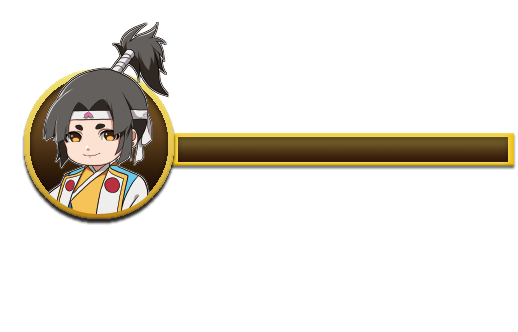
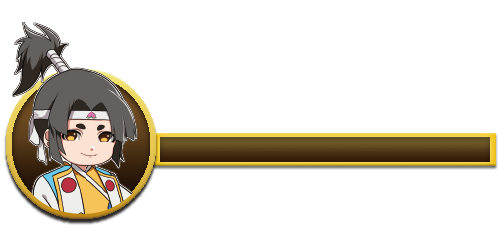
更新

diff --git a/広島校高松校合同チーム/ソースファイル/SampleMomo/GameProject/Game/CGameSceneBossUI.cpp b/広島校高松校合同チーム/ソースファイル/SampleMomo/GameProject/Game/CGameSceneBossUI.cpp
@@ -6,11 +6,11 @@
 
 CGameSceneBossUI::CGameSceneBossUI() :CObject(0, DP_UI)
 {
-	m_ui_pos = CVector2D(780, 670);
-	m_ui_size = CVector2D(500, 50);
+	m_ui_pos = CVector2D(780, 470);
+	m_ui_size = CVector2D(500, 250);
 
 	m_hp_frame_image_p = GET_RESOURCE("Boss_HP_Bar_Frame", CImage*);
-	m_hp_bar_p = new CBar(GET_RESOURCE("Boss_HP_Bar", CImage*), CCharacterBoss::GetInstance()->GetHitPointPointer(), CCharacterBoss::GetInstance()->GetHitPointMax(), m_ui_pos + CVector2D(9, 6.0), CVector2D(481,38));
+	m_hp_bar_p = new CBar(GET_RESOURCE("Boss_HP_Bar", CImage*), CCharacterBoss::GetInstance()->GetHitPointPointer(), CCharacterBoss::GetInstance()->GetHitPointMax(), m_ui_pos + CVector2D(11, 138.0), CVector2D(335,25));
 
 }
 
@@ -26,6 +26,7 @@ void CGameSceneBossUI::Update()
 
 void CGameSceneBossUI::Draw()
 {
+	
 	m_hp_frame_image_p->SetSize(m_ui_size);
 	m_hp_frame_image_p->SetPos(m_ui_pos);
 	m_hp_frame_image_p->Draw();

diff --git a/広島校高松校合同チーム/ソースファイル/SampleMomo/GameProject/Game/CCharacterEnemy.h b/広島校高松校合同チーム/ソースファイル/SampleMomo/GameProject/Game/CCharacterEnemy.h
@@ -5,7 +5,7 @@ class CBar;
 
 #define ENEMY_SPEAR_FIND_LENGTH (3000.0f)
 #define ENEMY_SPEAR_ATTACK_FRAME (30.0)
-#define ENEMY_SPEAR_ATTACK_LENGTH CVector3D(300.0f,150.0f,150.0)
+#define ENEMY_SPEAR_ATTACK_LENGTH CVector3D(300.0f,150.0f,75.0)
 #define ENEMY_SPEAR_MOVE_END_LENGTH CVector3D(270.0f,150.0f,90.0)
 #define ENEMY_SPEAR_ATTACK_POWER (1.0)
 #define ENEMY_SPEAR_ATTACK_HIT_START_FRAME (15.0)
@@ -15,7 +15,7 @@ class CBar;
 
 #define ENEMY_AXE_FIND_LENGTH (3000.0f)
 #define ENEMY_AXE_ATTACK_FRAME (30.0)
-#define ENEMY_AXE_ATTACK_LENGTH CVector3D(300.0f,1000.0f,150.0)
+#define ENEMY_AXE_ATTACK_LENGTH CVector3D(300.0f,1000.0f,75.0)
 #define ENEMY_AXE_MOVE_END_LENGTH CVector3D(270.0f,1000.0f,90.0)
 #define ENEMY_AXE_ATTACK_POWER (1.0)
 #define ENEMY_AXE_ATTACK_HIT_START_FRAME (15.0)

diff --git a/広島校高松校合同チーム/ソースファイル/SampleMomo/GameProject/Game/CCharacterEnemy.cpp b/広島校高松校合同チーム/ソースファイル/SampleMomo/GameProject/Game/CCharacterEnemy.cpp
@@ -18,8 +18,8 @@ CCharacterEnemy::CCharacterEnemy(int _enemy_id, CVector3D _enemy_pos, CGameScene
 	SetIsShowShadow(true);
 	SetRads(75, 150, 10);
 
-	m_hit_point = 10.0f;
-	m_hit_point_max = 10.0f;
+	m_hit_point = 7.5f;
+	m_hit_point_max = 7.5f;
 
 
 	LoadAnimImage();

diff --git a/広島校高松校合同チーム/ソースファイル/SampleMomo/GameProject/Game/CCharacterPlayer.h b/広島校高松校合同チーム/ソースファイル/SampleMomo/GameProject/Game/CCharacterPlayer.h
@@ -89,7 +89,7 @@
 //#define PLAYER_EVASION_MOVE_END_FRAME (PLAYER_EVASION_ANIM_DELAY * 5)
 
 
-#define PLAYER_AFTER_DAMAGE_INVINCIBLE (28)
+#define PLAYER_AFTER_DAMAGE_INVINCIBLE (40)
 #define PLAYER_KNOCK_BACK_FRAME (30.0)
 #define PLAYER_DAMAGE_FRAME (30.0)
 

diff --git a/広島校高松校合同チーム/ソースファイル/SampleMomo/GameProject/Game/CGameScene.cpp b/広島校高松校合同チーム/ソースファイル/SampleMomo/GameProject/Game/CGameScene.cpp
@@ -39,8 +39,9 @@ void CGameScene::Setup()
 {
 	m_reserve_num = RESERVE_MAX;
 	m_now_scene = eStage1;
-	PopPlayer();
 	SetCheckPoint(CVector3D(300, -220, 550));
+	m_last_wave = -1;
+	PopPlayer();
 	SetupScene();
 }
 
